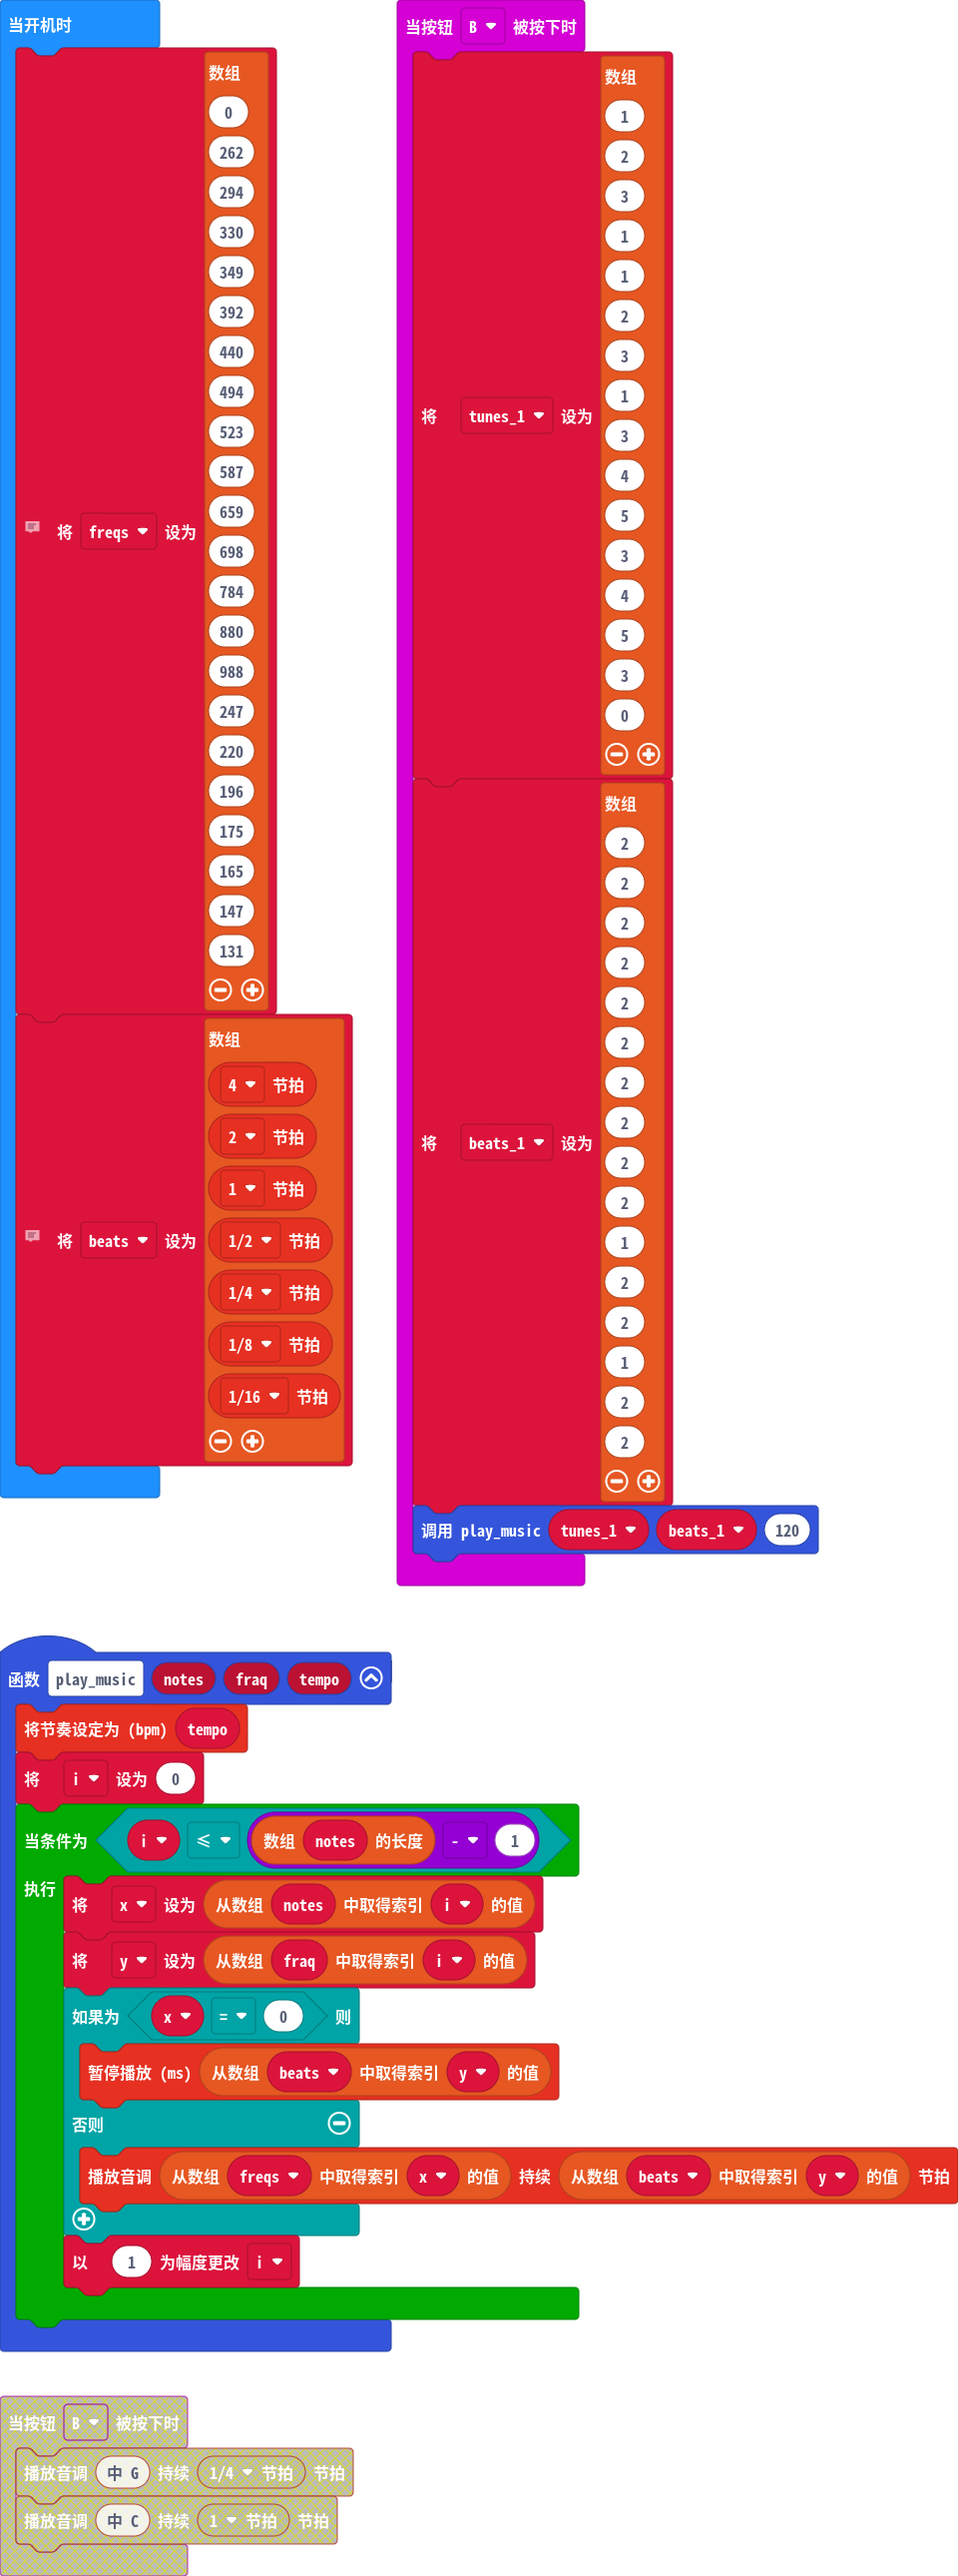
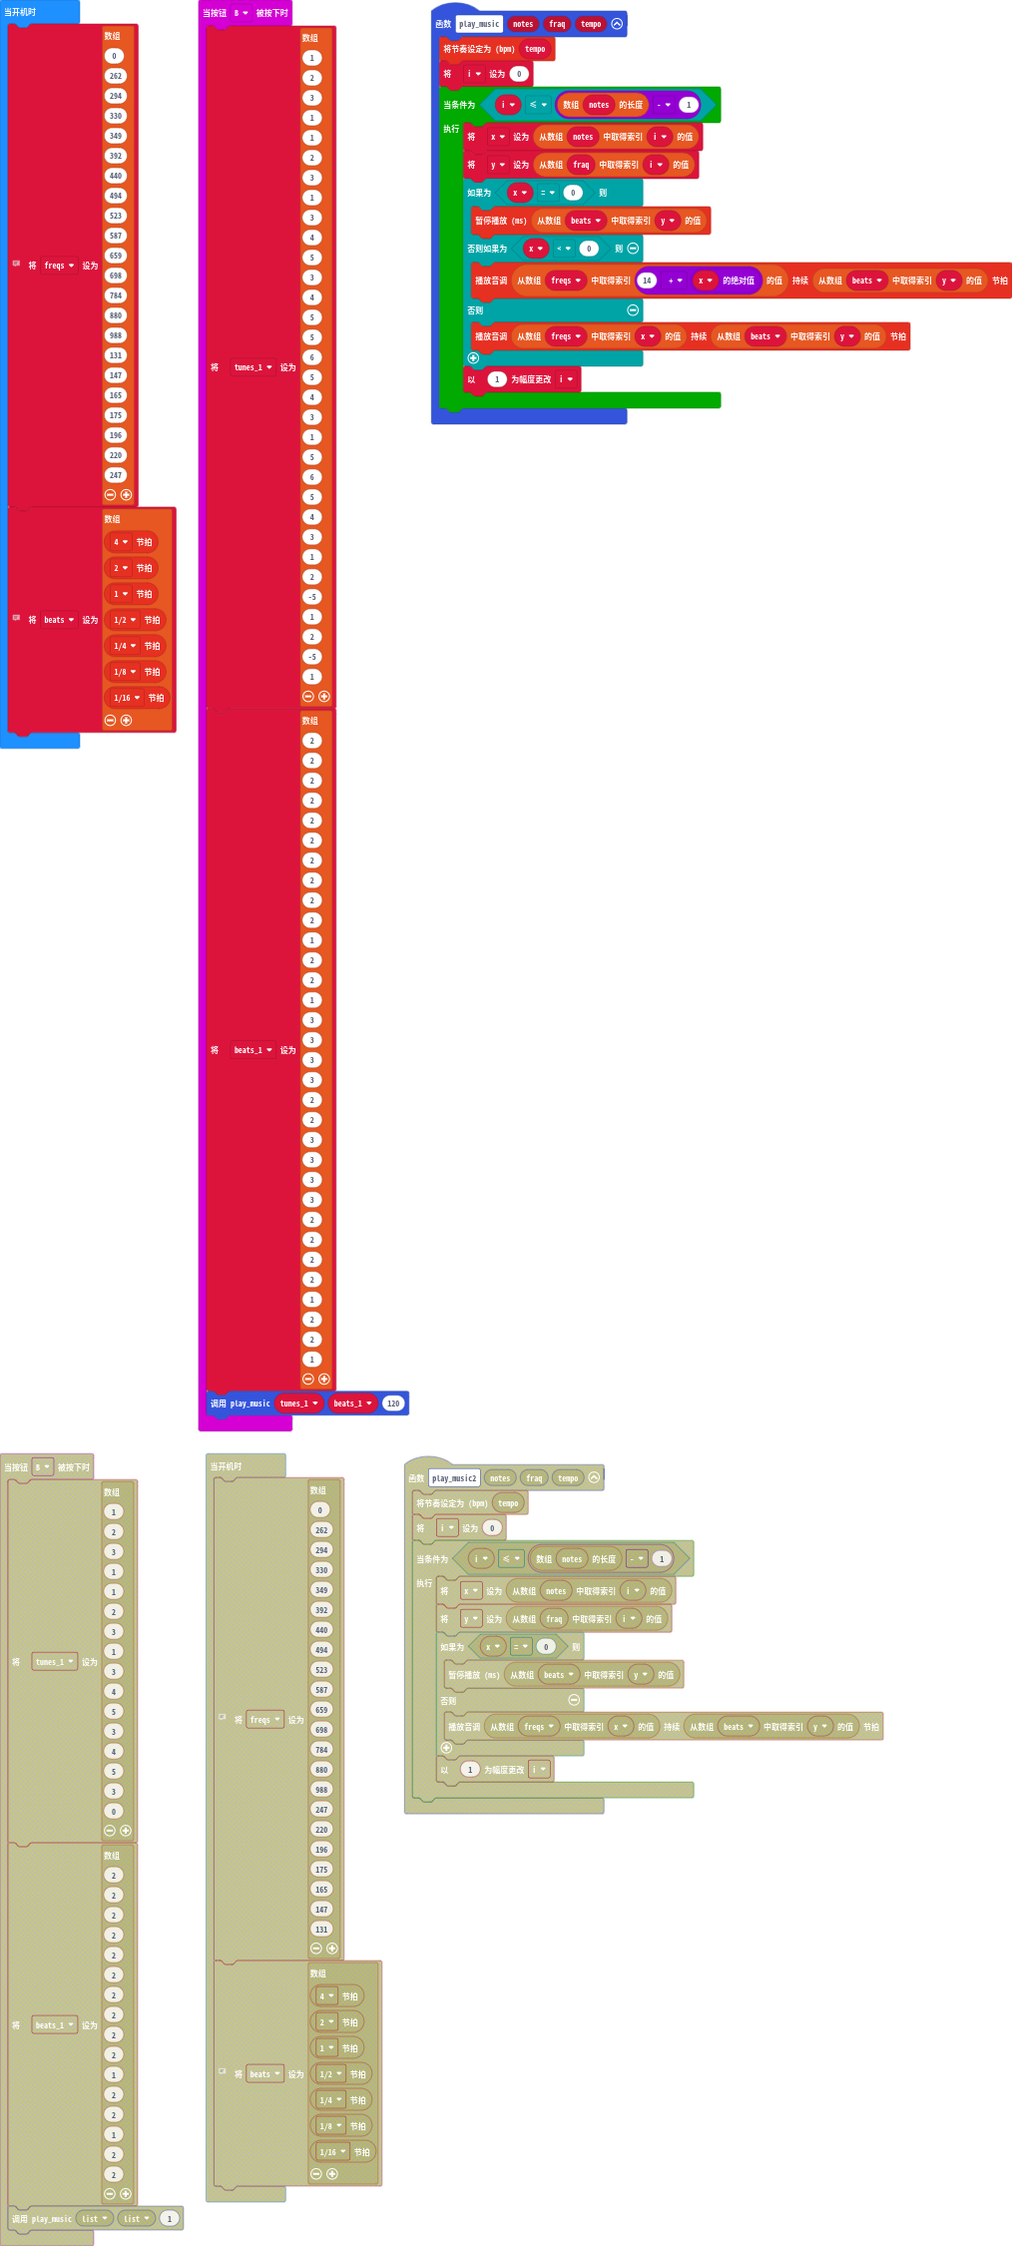
fix: fix the player

diff --git a/main.ts b/main.ts
@@ -32,6 +32,8 @@ function play_music (notes: number[], fraq: number[], tempo: number) {
         y = fraq[i]
         if (x == 0) {
             music.rest(beats[y])
+        } else if (x < 0) {
+            music.playTone(freqs[14 + Math.abs(x)], beats[y])
         } else {
             music.playTone(freqs[x], beats[y])
         }
@@ -54,8 +56,24 @@ input.onButtonPressed(Button.B, function () {
     3,
     4,
     5,
+    5,
+    6,
+    5,
+    4,
     3,
-    0
+    1,
+    5,
+    6,
+    5,
+    4,
+    3,
+    1,
+    2,
+    -5,
+    1,
+    2,
+    -5,
+    1
     ]
     beats_1 = [
     2,
@@ -72,8 +90,24 @@ input.onButtonPressed(Button.B, function () {
     2,
     2,
     1,
+    3,
+    3,
+    3,
+    3,
     2,
-    2
+    2,
+    3,
+    3,
+    3,
+    3,
+    2,
+    2,
+    2,
+    2,
+    1,
+    2,
+    2,
+    1
     ]
     play_music(tunes_1, beats_1, 120)
 })
@@ -103,13 +137,13 @@ freqs = [
 784,
 880,
 988,
-247,
-220,
-196,
-175,
-165,
+131,
 147,
-131
+165,
+175,
+196,
+220,
+247
 ]
 // music beats: 0 for breve, 1 for double, 2 for whole, 3 for half, 4 for 1/4, 5 for 1/8, 6 for 1/16.
 beats = [

diff --git a/main.py b/main.py
@@ -33,14 +33,78 @@ def play_music(notes: List[number], fraq: List[number], tempo: number):
         y = fraq[i]
         if x == 0:
             music.rest(beats[y])
+        elif x < 0:
+            music.play_tone(freqs[14 + abs(x)], beats[y])
         else:
             music.play_tone(freqs[x], beats[y])
         i += 1
 
 def on_button_pressed_b():
     global tunes_1, beats_1
-    tunes_1 = [1, 2, 3, 1, 1, 2, 3, 1, 3, 4, 5, 3, 4, 5, 3, 0]
-    beats_1 = [2, 2, 2, 2, 2, 2, 2, 2, 2, 2, 1, 2, 2, 1, 2, 2]
+    tunes_1 = [1,
+        2,
+        3,
+        1,
+        1,
+        2,
+        3,
+        1,
+        3,
+        4,
+        5,
+        3,
+        4,
+        5,
+        5,
+        6,
+        5,
+        4,
+        3,
+        1,
+        5,
+        6,
+        5,
+        4,
+        3,
+        1,
+        2,
+        -5,
+        1,
+        2,
+        -5,
+        1]
+    beats_1 = [2,
+        2,
+        2,
+        2,
+        2,
+        2,
+        2,
+        2,
+        2,
+        2,
+        1,
+        2,
+        2,
+        1,
+        3,
+        3,
+        3,
+        3,
+        2,
+        2,
+        3,
+        3,
+        3,
+        3,
+        2,
+        2,
+        2,
+        2,
+        1,
+        2,
+        2,
+        1]
     play_music(tunes_1, beats_1, 120)
 input.on_button_pressed(Button.B, on_button_pressed_b)
 
@@ -69,13 +133,13 @@ freqs = [0,
     784,
     880,
     988,
-    247,
-    220,
-    196,
-    175,
-    165,
+
+
+    131,
     147,
-    131]
+    165,
+    175,
+    196,    220,   247]
 # music beats: 0 for breve, 1 for double, 2 for whole, 3 for half, 4 for 1/4, 5 for 1/8, 6 for 1/16.
 beats = [music.beat(BeatFraction.BREVE),
     music.beat(BeatFraction.DOUBLE),
